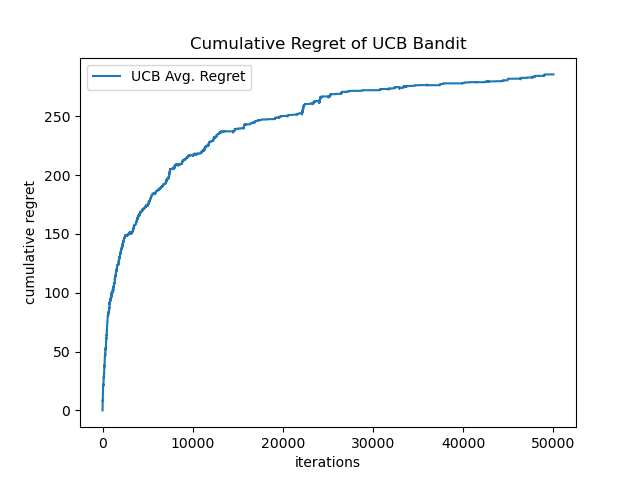
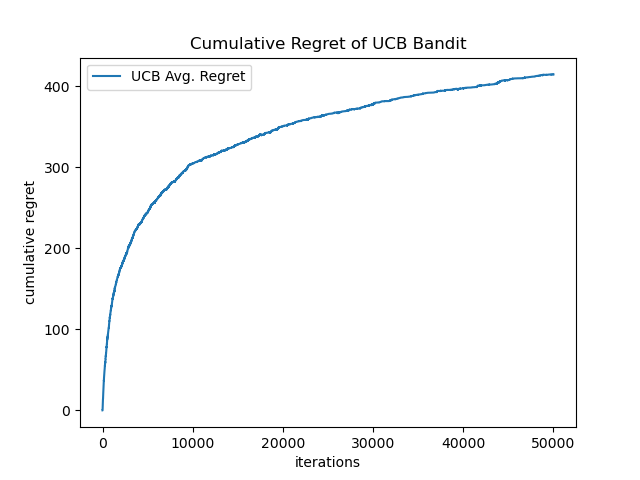
fixed confidence-bound update for all arms

diff --git a/ucb.py b/ucb.py
@@ -9,7 +9,6 @@ class UCB(object):
     def __init__(self, rew_avg):  ## Initialization
 
         self.means = rew_avg                     # vector of true means of the arms
-        self.num_iter = num_iter                 # current time index t
         self.num_arms = rew_avg.size             # number of arms (k)
         self.genie_arm = np.argmax(self.means)   # best arm given the true mean rewards
         self.chosen_arm = int                    # arm chosen for exploitation
@@ -44,28 +43,20 @@ class UCB(object):
     def update_stats(self, arm, rew):  ## Update the empirical means, the number of pulls, and increment the time index
 
         self.num_pulls[arm] += 1
-
         self.emp_means[arm] = (self.emp_means[arm] * (self.num_pulls[arm] - 1) + rew[arm]) / self.num_pulls[arm]
-
-        # self.emp_means[arm] += rew[arm]
-        # self.emp_means[arm] = self.emp_means[arm] / self.num_pulls[arm]
-
         self.time += 1
 
         return None
 
     def update_ucb(self):  ## Update the vector of upper confidence bounds
 
-        arm = self.chosen_arm
-
-        # Use the Infinite Horizon version, Eq. 8.1 in book "Bandit Algorithms"
-        t_scale = 1 + self.time * np.log(self.time+1)**2
-
-        # need to make a bonus for every arm at each time step
-        bonus = np.sqrt( 2 * np.log(t_scale) / self.num_pulls[arm])   # UCB: Exploration Bonus
-        self.ucb_arr[arm] = self.emp_means[arm] + bonus               # Add UCB value to empirical mean
-        # self.ucb_arr = self.emp_means + bonus               # Add UCB value to empirical mean
-
+        # Use the Infinite Horizon version, Algo 6 in 8.1 of book "Bandit Algorithms"
+        func = 2 * np.log(1 + self.time*((np.log(self.time))**2))
+        for i in range(self.num_arms):
+            if self.num_pulls[i] == 0:
+                continue
+            else:
+                self.ucb_arr[i] = self.emp_means[i] + np.sqrt(func/self.num_pulls[i])
 
         return None
 
@@ -91,19 +82,15 @@ class UCB(object):
 
 
 
-
 ### BANDIT ARM REWARD NOISE FUNCTION ###
 
 def get_reward(rew_avg):
-    """
 
-    """
-
-    # Add epsilon (sub-gaussian noise) to reward
+    # Add sub-gaussian noise to reward
     mean = np.zeros(rew_avg.size)
     cov = np.eye(rew_avg.size)
-    epsilon = np.random.multivariate_normal(mean, cov)
-    reward = rew_avg + epsilon
+    noise = np.random.multivariate_normal(mean, cov)
+    reward = rew_avg + noise
 
     return reward
 
@@ -112,7 +99,6 @@ def get_reward(rew_avg):
 
 def run_algo(rew_avg, num_iter, num_trial):
     regret = np.zeros((num_trial, num_iter))
-
     algo = UCB(rew_avg)
 
     for k in range(num_trial):
@@ -123,9 +109,7 @@ def run_algo(rew_avg, num_iter, num_trial):
 
         for t in range(num_iter - 1):
             rew_vec = get_reward(rew_avg)
-
             algo.iterate(rew_vec)
-
         regret[k, :] = np.asarray(algo.cum_reg)
 
     return regret
@@ -137,7 +121,7 @@ if __name__ == '__main__':
     ### INITIALIZE EXPERIMENT PARAMETERS ###
 
     rew_avg = np.asarray([0.8, 0.96, 0.7, 0.5, 0.4, 0.3])
-    num_iter, num_trial = int(5e4), 10
+    num_iter, num_trial = int(5e4), 30
 
     reg = run_algo(rew_avg, num_iter, num_trial)
     avg_reg = np.mean(reg, axis=0)
@@ -154,10 +138,10 @@ if __name__ == '__main__':
     plt.legend()
     plt.show()
 
-    # # Log scale x-axis
-    # plt.semilogx(avg_reg, label="UCB Avg. Regret")
-    # plt.xlabel('iterations')
-    # plt.ylabel('cumulative regret')
-    # plt.title('Cumulative Regret of UCB Bandit (Semilogx)')
-    # plt.legend()
-    # plt.show()
+    # Log scale x-axis
+    plt.semilogx(avg_reg, label="UCB Avg. Regret")
+    plt.xlabel('iterations')
+    plt.ylabel('cumulative regret')
+    plt.title('Cumulative Regret of UCB Bandit (Semilogx)')
+    plt.legend()
+    plt.show()
